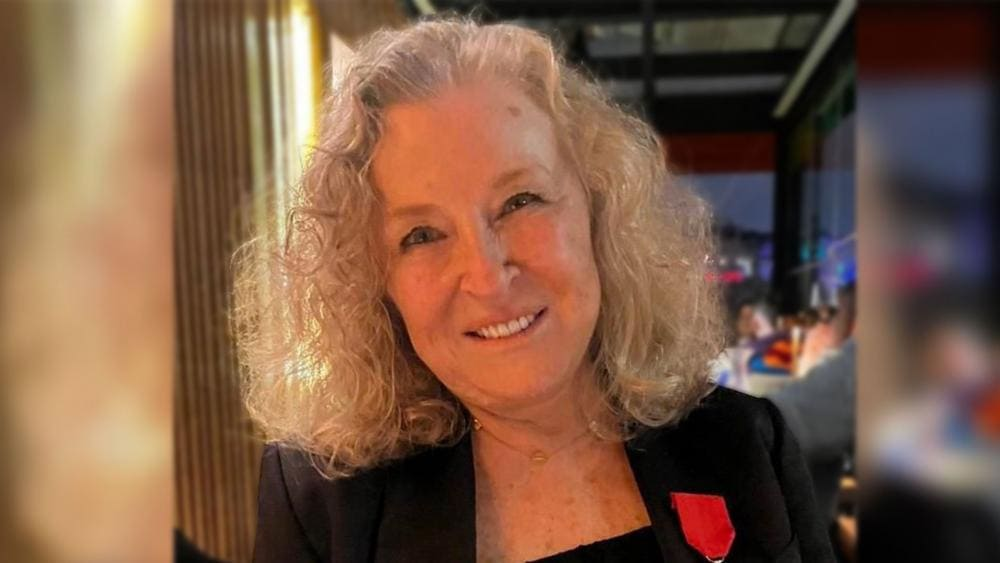
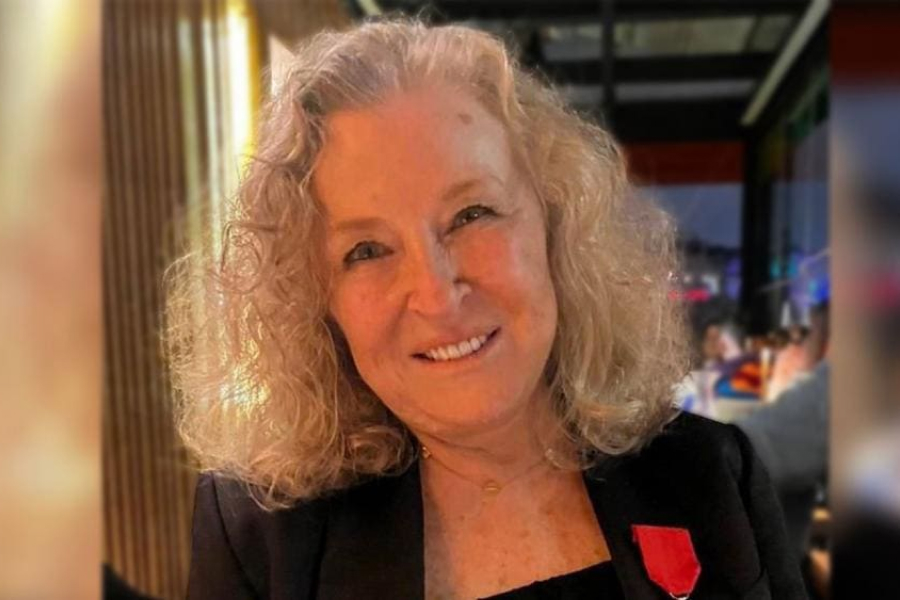
Defne Hanım's requests

diff --git a/src/routes/index.tsx b/src/routes/index.tsx
@@ -4,11 +4,12 @@ import {
 	ProjectorScreenIcon,
 	PuzzlePieceIcon,
 	TargetIcon,
+	ArrowUpRightIcon,
 } from "@phosphor-icons/react";
 import { createFileRoute } from "@tanstack/react-router";
 import Button from "../components/Button";
 import SplitText from "../components/SplitText";
-
+import ArmasImage from "../img/armas/armas_vakif_building.jpg";
 import SectionTitle from "../components/ui/SectionTitle";
 import BannerSustain from "../img/brand/banner-sustain.png";
 import BgImage from "../img/brand/bg-image.png";
@@ -97,9 +98,7 @@ function App() {
 				<p>
 					1974’ten bu yana markalara güvenilir, cesur ve sürdürülebilir iletişim
 					çözümleri sunan bir danışmanlık firmasıyız. İletişimi, toplumsal fayda
-					ve ortak yaşam için en güçlü araç olarak görüyoruz. 52 yıllık
-					deneyimimizle, her projede şeffaflık, kanıtlanmış yöntemler ve kalıcı
-					etki yaratma hedefiyle çalışıyoruz.
+					ve ortak yaşam için en güçlü araç olarak görüyoruz. 52 yıllık deneyimimizle, her projede şeffaflık ve kalıcı etki yaratma hedefiyle çalışıyoruz.
 				</p>
 			</section>
 
@@ -171,11 +170,7 @@ function App() {
 						modeli benimseme kararı aldık.
 					</p>
 					<p>
-						Vakıf çatısı altında faaliyet göstermek, uzun vadeli toplumsal ve
-						çevresel etki odağımızı güçlendiriyor. Kurumlara yalnızca görünürlük
-						değil; şeffaf, kanıta dayalı ve sorumluluk temelli stratejilerle{" "}
-						<b>güven ve kalıcılık</b> inşa eden bir iletişim ortaklığı
-						sunuyoruz.
+						<b>Armaş Vakıf</b> çatısı altında faaliyet göstermek, uzun vadeli toplumsal ve çevresel etki odağımızı güçlendiriyor. Kurumlara yalnızca görünürlük değil; şeffaf, kanıta dayalı ve sorumluluk temelli stratejilerle güven ve kalıcılık inşa eden bir iletişim ortaklığı sunuyoruz.
 					</p>
 				</div>
 
@@ -189,6 +184,31 @@ function App() {
 			</div>
 			{/* Landing Section End */}
 
+			{/* Hero Section */}
+				<section className="flex flex-col md:flex-row w-full mb-12 md:mb-24">
+					<div className="Hero__Left flex flex-col w-full md:w-1/2  bg-green-900 items-center justify-center font-sans text-white text-xl md:text-6xl  text-start p-4 md:p-12 gap-4 md:gap-12">
+						<SplitText
+							className="font-classic text-white text-4xl md:text-6xl text-start font-semibold"
+							text="Armaş Vakfı'nı Tanıyalım"
+						/>
+						<Button
+							label="Daha Fazla"
+							type="tertiary"
+							size="large"
+							rounded={true}
+							to="https://armasvakfi.org/"
+							endIcon={<ArrowUpRightIcon size={24} />}
+						/>
+					</div>
+
+					<div className="Hero__Right w-full md:w-1/2">
+						<img
+							src={ArmasImage}
+							alt="Armaş Vakfı"
+							className="w-full h-full object-cover"
+						/>
+					</div>
+				</section>
 			{/* Landing Section Start */}
 			<SectionTitle
 				title="Neler Yapıyoruz?"
@@ -215,12 +235,7 @@ function App() {
 			<div className="flex flex-col md:flex-row items-center justify-center w-full  p-12 md:px-24 md:py-0 gap-4 md:gap-12">
 				<div className="flex flex-col items-center justify-center w-full md:w-1/2 text-(--brand-text-primary) text-md md:text-lg gap-2 md:gap-4 ">
 					<p>
-						<b>1974’ten</b> bu yana geliştirdiğimiz Etik İlkelerimiz
-						doğrultusunda <b>Clean Creatives</b> taahhüdünü imzaladığımızı
-						duyurduk. Böylece, fosil yakıt şirketleri ve bu endüstriyle
-						bağlantılı kuruluşlar için Halkla İlişkiler ve Reklam çalışmaları
-						yürütmeme taahhüdünde bulunan 500’den fazla yaratıcı kurum arasında
-						yerimizi aldık.
+						<b>1974</b>’ten bu yana geliştirdiğimiz etik ilkelerimiz doğrultusunda <b>Clean Creatives</b> taahhüdünü imzaladık. Böylece, fosil yakıt, tütün ve savunma sanayi şirketleri ve bu endüstrilerle bağlantılı kuruluşlar için iletişim ve danışmanlık yürütmeme taahhüdünde bulunan 500’den fazla yaratıcı kurum arasında yerimizi aldık.
 					</p>
 					<p>
 						<b>Şeffaf, dürüst ve çevreye duyarlı iletişim anlayışımızla,</b>{" "}

diff --git a/src/routes/is-ortaklarimiz.tsx b/src/routes/is-ortaklarimiz.tsx
@@ -42,6 +42,7 @@ import Partner7 from "../img/customers/hayatadestek-logo.svg";
 import Partner2 from "../img/customers/hrant_hori.png";
 import Partner3 from "../img/customers/tog-logo-horizontal.svg";
 import Partner4 from "../img/customers/wb-aima-logo.jpg";
+import Partner10 from "../img/customers/turetim_logo.webp";
 
 interface IndustryClient {
 	name: string;
@@ -153,6 +154,17 @@ const partnerItems: PartnerItem[] = [
 		),
 		title: "Cüzzamla Savaş Derneği",
 	},
+	{
+		id: 10,
+		icon: (
+			<img
+				src={Partner10}
+				alt="Türetim Ekonomisi Derneği"
+				className="h-auto w-full object-contain"
+			/>
+		),
+		title: "Türetim Ekonomisi Derneği",
+	},
 ];
 const industryItems: IndustryItem[] = [
 	{
@@ -171,16 +183,14 @@ const industryItems: IndustryItem[] = [
 		title: "Finans",
 		clients: [
 			{ name: "Alternatif Bank" },
-			{ name: "Amerikan Express" },
-			{ name: "Arena Faktoring" },
-			{
-				name: "Benkar Tüketici Finansman ve Kart Hizmetleri A.Ş.",
-			},
-			{ name: "Garanti BBVA ve İştirakleri" },
-			{ name: "Diebold" },
-			{ name: "Figopara" },
-			{ name: "PWC" },
-			{ name: "Türkiye Bankalar Birliği" },
+  { name: "Amerikan Express" },
+  { name: "Arena Faktoring" },
+  { name: "Benkar Tüketici Finansman ve Kart Hizmetleri A.Ş." },
+  { name: "Diebold" },
+  { name: "Figopara" },
+  { name: "Garanti BBVA ve İştirakleri" },
+  { name: "PWC" },
+  { name: "Türkiye Bankalar Birliği" }
 		],
 	},
 	{

diff --git a/src/routes/hikayemiz.tsx b/src/routes/hikayemiz.tsx
@@ -52,7 +52,7 @@ function RouteComponent() {
 							İletişim, <b>Türkiye’nin ilk halkla ilişkiler şirketidir</b>.
 							Cağaloğlu’ndaki mütevazı bir ofisten başlayan yolculuğumuz, kısa
 							sürede iş dünyasının güvenini kazanarak Teşvikiye’de köklü bir
-							iletişim kurumuna dönüştü. 1995’te Sibel Asna’nın liderliğinde
+							iletişim kurumuna dönüştü. 1995’te Sibel Asna Özesmi’nın liderliğinde
 							yeniden yapılanan şirketimiz, 2000’lerden itibaren A&B İletişim
 							A.Ş. adıyla yoluna devam etti. Bugün{" "}
 							<b>52 yıllık deneyimimizle</b>, hem ulusal hem de uluslararası
@@ -100,7 +100,7 @@ function RouteComponent() {
 							kalıcılaştırmak için, Türkiye’de ve dünyada nadir görülen bir
 							kurumsal modele geçtik. 52 yıllık etik anlayışımızı koruma ve
 							geleceğe taşıma kararı aldık. Bu doğrultuda, şirketin tüm
-							hisselerini Sibel Asna <b>Armaş Vakfı</b>’na devretti. Yeni
+							hisselerini Sibel Asna Özesmi <b>Armaş Vakfı</b>’na devretti. Yeni
 							yapımızla birlikte yolumuza A&B Danışmanlık adıyla devam ediyoruz.
 							Bu adımı, klasik bir şirket devri olarak değil; iletişim gibi son
 							derece güçlü ve aynı zamanda yüksek sorumluluk taşıyan bir alanda,

diff --git a/src/routes/blog/$slug.tsx b/src/routes/blog/$slug.tsx
@@ -55,7 +55,7 @@ function BlogPostRoute() {
 				</p>
 			</header>
 			*/}
-			<article className="prose prose-neutral prose-lg md:prose-xl max-w-3xl mx-auto w-full text-(--brand-text-primary) prose-headings:font-semibold prose-a:text-(--brand-primary) ">
+			<article className="prose prose-neutral prose-md md:prose-lg max-w-3xl mx-auto w-full text-(--brand-text-primary) prose-headings:font-semibold prose-a:text-(--brand-primary) ">
 				<Suspense
 					fallback={
 						<div className="flex flex-col items-center justify-center h-full">
@@ -64,7 +64,7 @@ function BlogPostRoute() {
 						</div>
 					}
 				>
-					<div className=" text-justify">
+					<div className=" text-start">
 						<Body />
 					</div>
 				</Suspense>

diff --git a/src/components/HistoryofAB.tsx b/src/components/HistoryofAB.tsx
@@ -229,7 +229,7 @@ export default function HistoryofAB() {
 						Ocak 2026 itibariyle, etik değerlerimizi kalıcılaştırmak için,
 						Türkiye’de ve dünyada nadir görülen bir kurumsal modele geçtik. 52
 						yıllık etik anlayışımızı koruma ve geleceğe taşıma kararı aldık. Bu
-						doğrultuda, şirketin tüm hisselerini Sibel Asna Armaş Vakfı’na
+						doğrultuda, şirketin tüm hisselerini Sibel Asna Özesmi Armaş Vakfı’na
 						devretti ve adımız A&B Danışmanlık oldu.
 					</p>
 				</div>

diff --git a/src/components/SplitText.tsx b/src/components/SplitText.tsx
@@ -161,7 +161,7 @@ const SplitText: React.FC<SplitTextProps> = ({
       wordWrap: 'break-word',
       willChange: 'transform, opacity'
     };
-    const classes = `split-parent overflow-hidden inline-block whitespace-normal ${className}`;
+    const classes = `split-parent  inline-block whitespace-normal ${className}`;
     const Tag = (tag || 'p') as React.ElementType;
 
     return (
